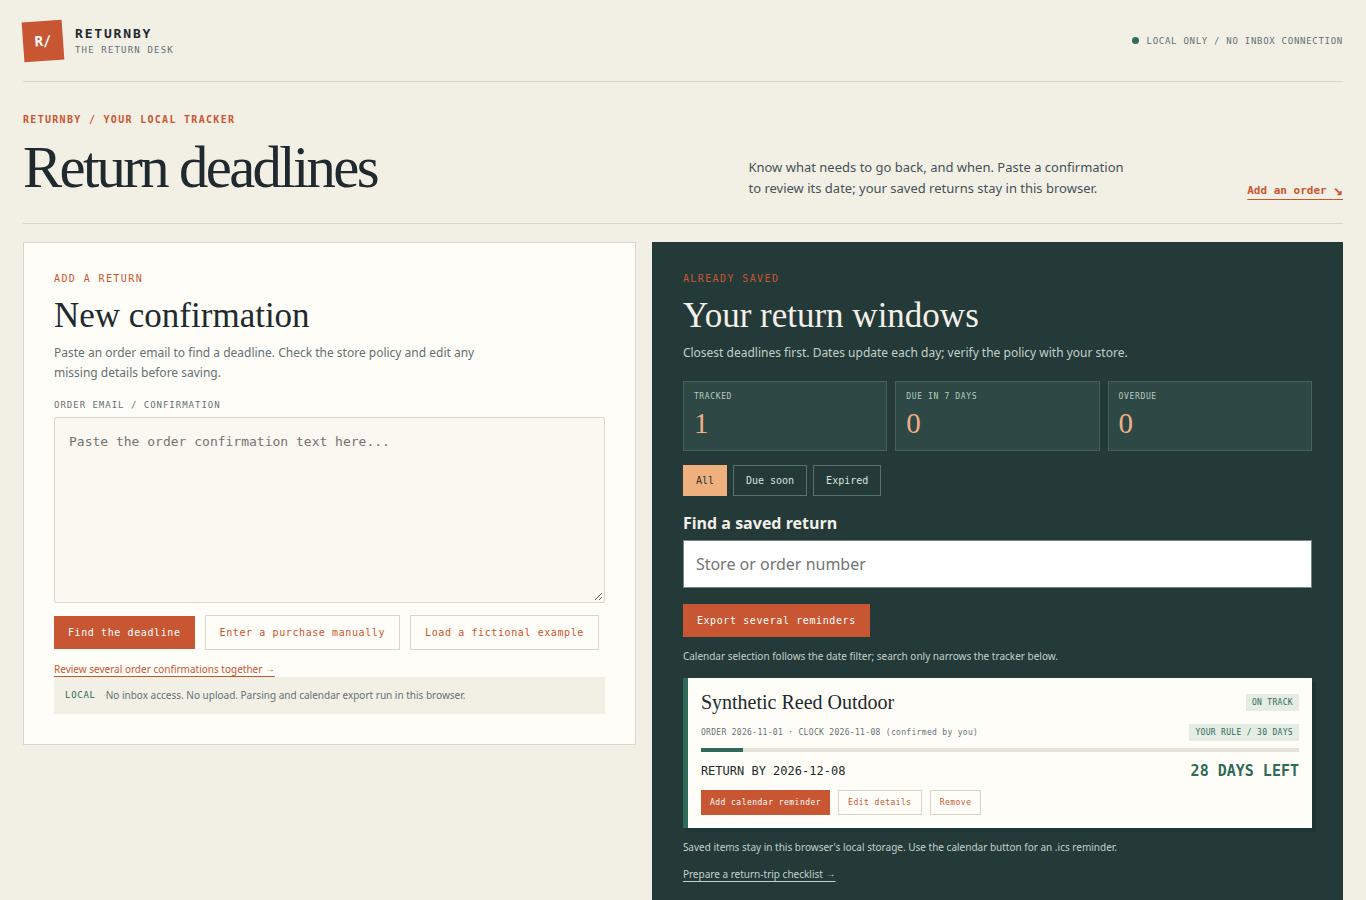
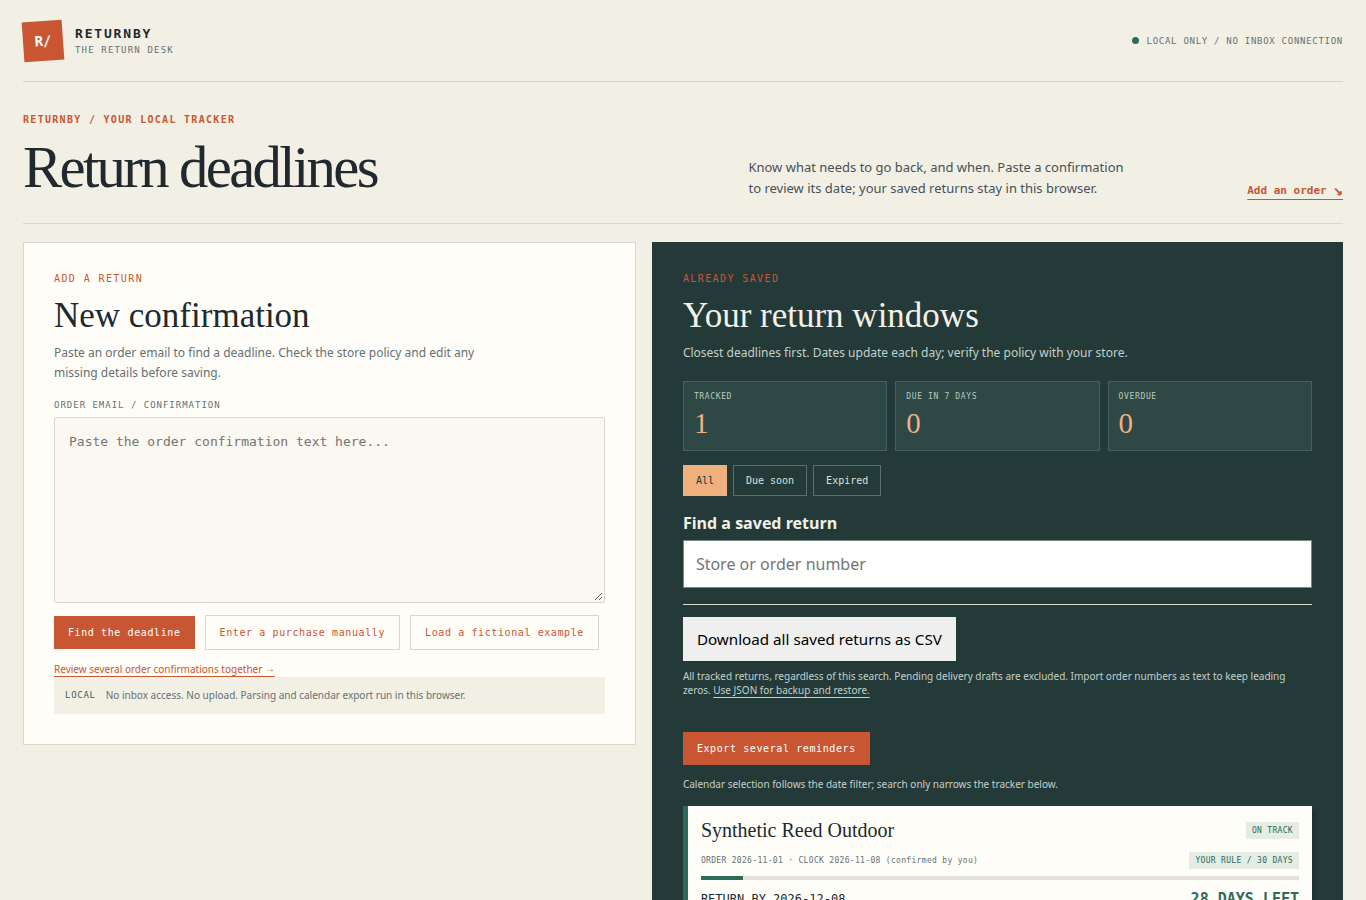
Keep export controls after mobile deadlines on integrated desk

Changed region(s): [[0.4919, 0.6533, 0.9839, 1.0]]

diff --git a/src/mobile-desk.ts b/src/mobile-desk.ts
@@ -10,9 +10,15 @@ function arrange() {
   const first = media?.matches && saved ? ledger : intake;
   const list = ledger.querySelector('#list');
   const calendar = ledger.querySelector('.calendar-toolbar');
+  const csv = ledger.querySelector('.csv-toolbar');
   if (list && calendar) {
-    if (media?.matches && saved && list.nextElementSibling !== calendar) list.after(calendar);
-    else if (!(media?.matches && saved) && list.previousElementSibling !== calendar) list.before(calendar);
+    if (media?.matches && saved && list.nextElementSibling !== (csv || calendar)) {
+      if (csv) list.after(csv, calendar);
+      else list.after(calendar);
+    } else if (!(media?.matches && saved) && list.previousElementSibling !== calendar) {
+      if (csv) list.before(csv, calendar);
+      else list.before(calendar);
+    }
   }
   grid.classList.toggle('has-saved-returns', saved);
   if (grid.firstElementChild === first) return;

diff --git a/VISION.md b/VISION.md
@@ -2,9 +2,9 @@
 
 ## Current shopper findings — November 10
 
-Independent Reed use of downloaded Undo ba63c7e: confirmed clock corrections survive reload and produce the same December8 deadline in tracker, calendar and trip. Manual intake lacked the clock field; Sable already fixed that in9da9e30. Integrated release returnby-integrated-2026-11-10-a4c0338 now delivers that fix, persistent trips, portable trip backups and repeated-receipt review. It was downloaded and run in Chrome; product judgment of that delivery remains separate.
+Independent Reed use of downloaded Undo ba63c7e: confirmed clock corrections survive reload and produce the same December8 deadline in tracker, calendar and trip. Manual intake lacked the clock field; Sable already fixed that in9da9e30. Historical integrated release returnby-integrated-2026-11-10-a4c0338 delivered that fix, persistent trips, portable trip backups and repeated-receipt review. It was downloaded and run in Chrome; product judgment of that delivery remains separate.
 
-Highest observed revisit gap: on390px phones the first saved deadline appeared around1240px down after a large empty intake form. The mobile revisit change puts the saved tracker first when purchases exist, with the first card now at542px in the same scenario. Reading and keyboard order match. Empty trackers still start with intake, and desktop retains its layout. Actual screenshots: docs/mobile-revisit. This is producer verification; independent changed-build judgment is pending.
+Highest observed revisit gap: on390px phones the first saved deadline appeared around1240px down after a large empty intake form. The mobile revisit change puts the saved tracker first when purchases exist, with the first card at542px on its original baseline in the same scenario. Reading and keyboard order match. Empty trackers still start with intake, and desktop retains its layout. Actual screenshots: docs/mobile-revisit. This is producer verification; independent changed-build judgment is pending.
 
 Remaining bar: delivery-based email evidence still needs explicit basis review (Gawa lane); phone users must see actionable deadlines without wading through intake; returned/kept and partial-item tracking remain their separate lanes. The inspected ReturnQueen public page offers purchase sync, pickup and refund tracking; ReturnBy is useful as a local private planning desk, not a substitute for those logistics. Reference website inspected in Chrome, no signed-in competitor app use claimed.
 
